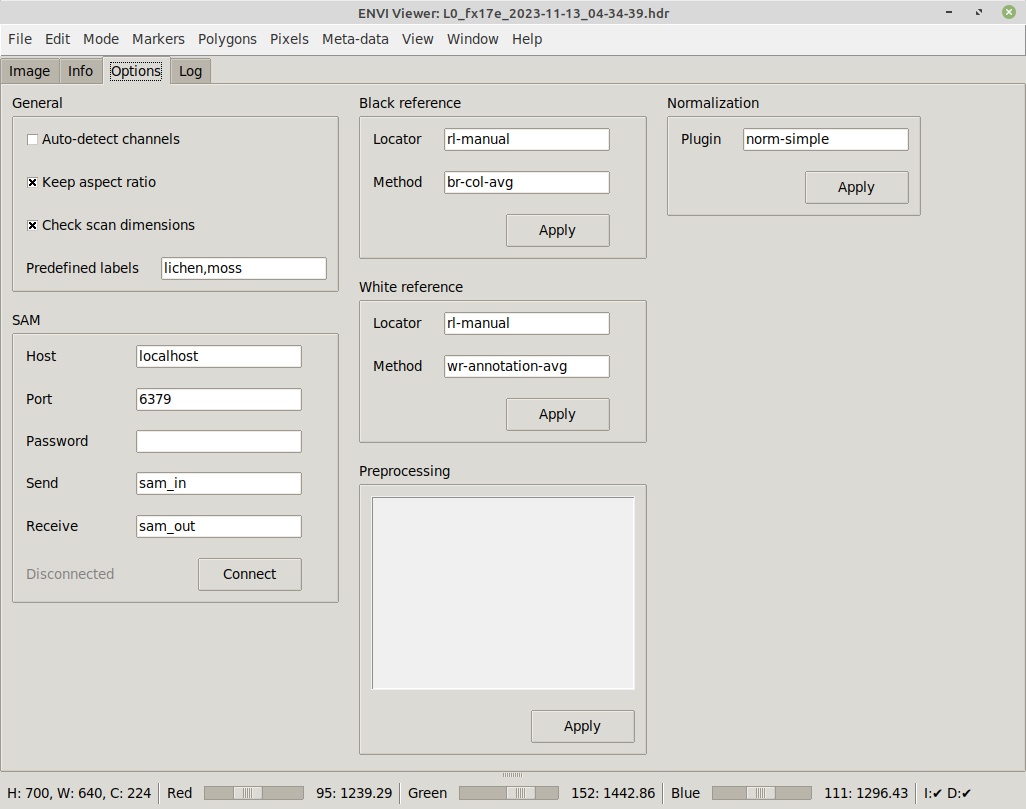
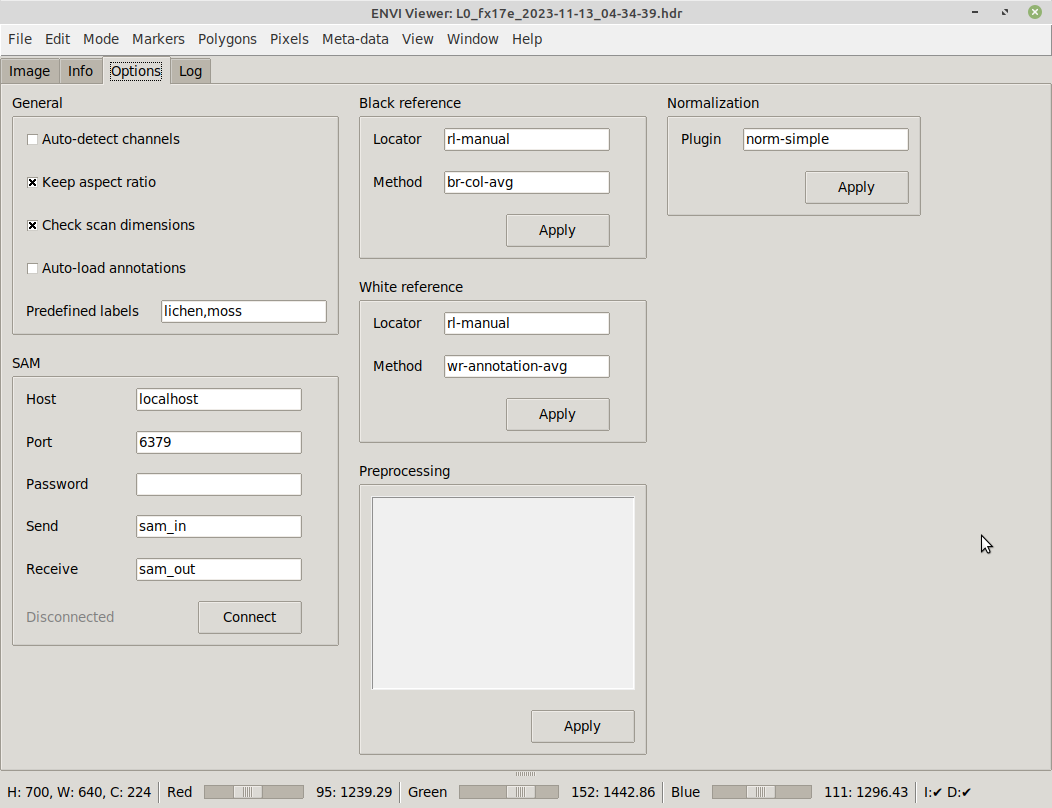
updated options and help screen

diff --git a/docs/happy/happy_tools/happy-envi-viewer.md b/docs/happy/happy_tools/happy-envi-viewer.md
@@ -148,6 +148,7 @@ On the *Options* tab, you can change various settings:
     * Auto-detect channels: uses any suggested channels from the meta-data of a scan
     * Keep aspect ratio: whether to maintain width/height ratio of the scan or let the image fill the available canvas space
     * Check scan dimensions: when checked and the dimensions of a subsequently loaded scan differs, a warning dialog will be displayed
+    * Auto-load annotations: when checked any available pixel or polygon annotations for scan, black and white reference get loaded automatically
     * Predefined labels: comma-separated list of labels to use in the annotation process 
 
 * [SAM](../sam.md) connection parameters
@@ -327,7 +328,9 @@ usage: happy-envi-viewer [-h] [-s SCAN] [-f BLACK_REFERENCE]
                          [--autodetect_channels] [--no_autodetect_channels]
                          [--keep_aspectratio] [--no_keep_aspectratio]
                          [--check_scan_dimensions]
-                         [--no_check_scan_dimensions] [--export_to_scan_dir]
+                         [--no_check_scan_dimensions]
+                         [--auto_load_annotations]
+                         [--no_auto_load_annotations] [--export_to_scan_dir]
                          [--annotation_color HEXCOLOR]
                          [--predefined_labels LIST] [--redis_host HOST]
                          [--redis_port PORT] [--redis_pw PASSWORD]
@@ -383,6 +386,12 @@ optional arguments:
                         whether to not compare the dimensions of subsequently
                         loaded scans and output a warning if they differ
                         (default: None)
+  --auto_load_annotations
+                        whether to automatically load any annotations when
+                        loading a scan, black or white ref (default: None)
+  --no_auto_load_annotations
+                        whether to not automatically load any annotations when
+                        loading a scan, black or white ref (default: None)
   --export_to_scan_dir  whether to export images to the scan directory rather
                         than the last one used (default: None)
   --annotation_color HEXCOLOR
